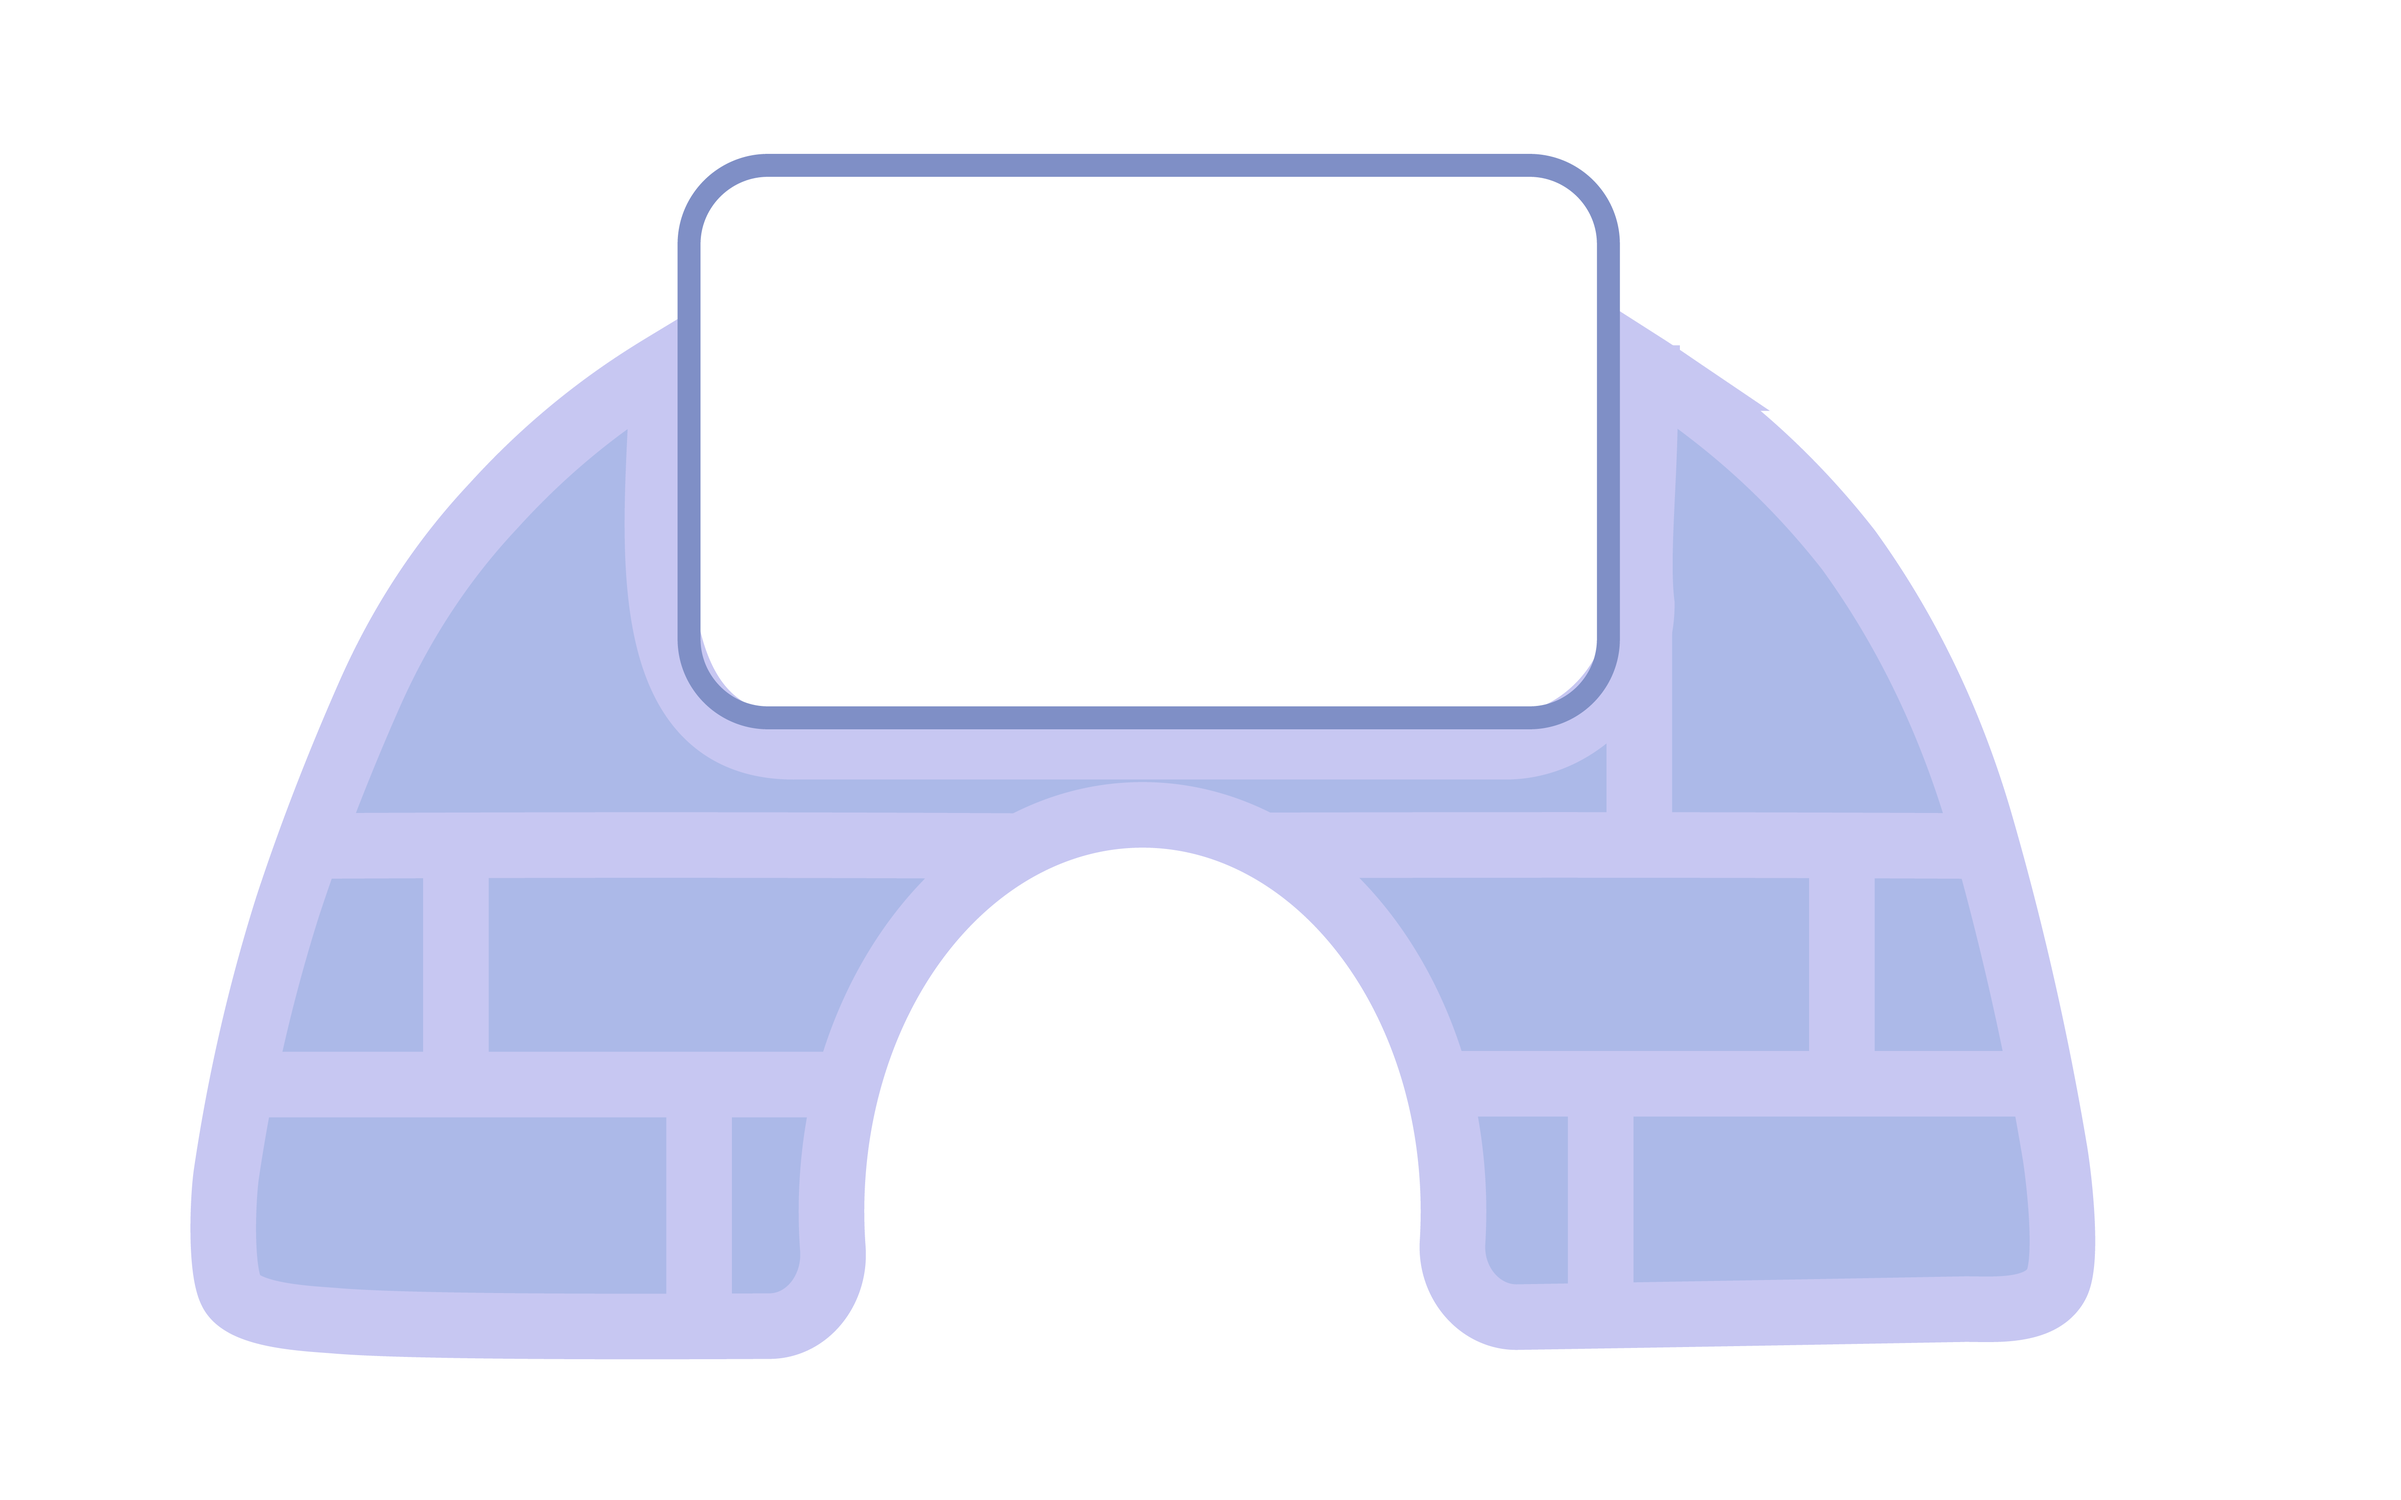
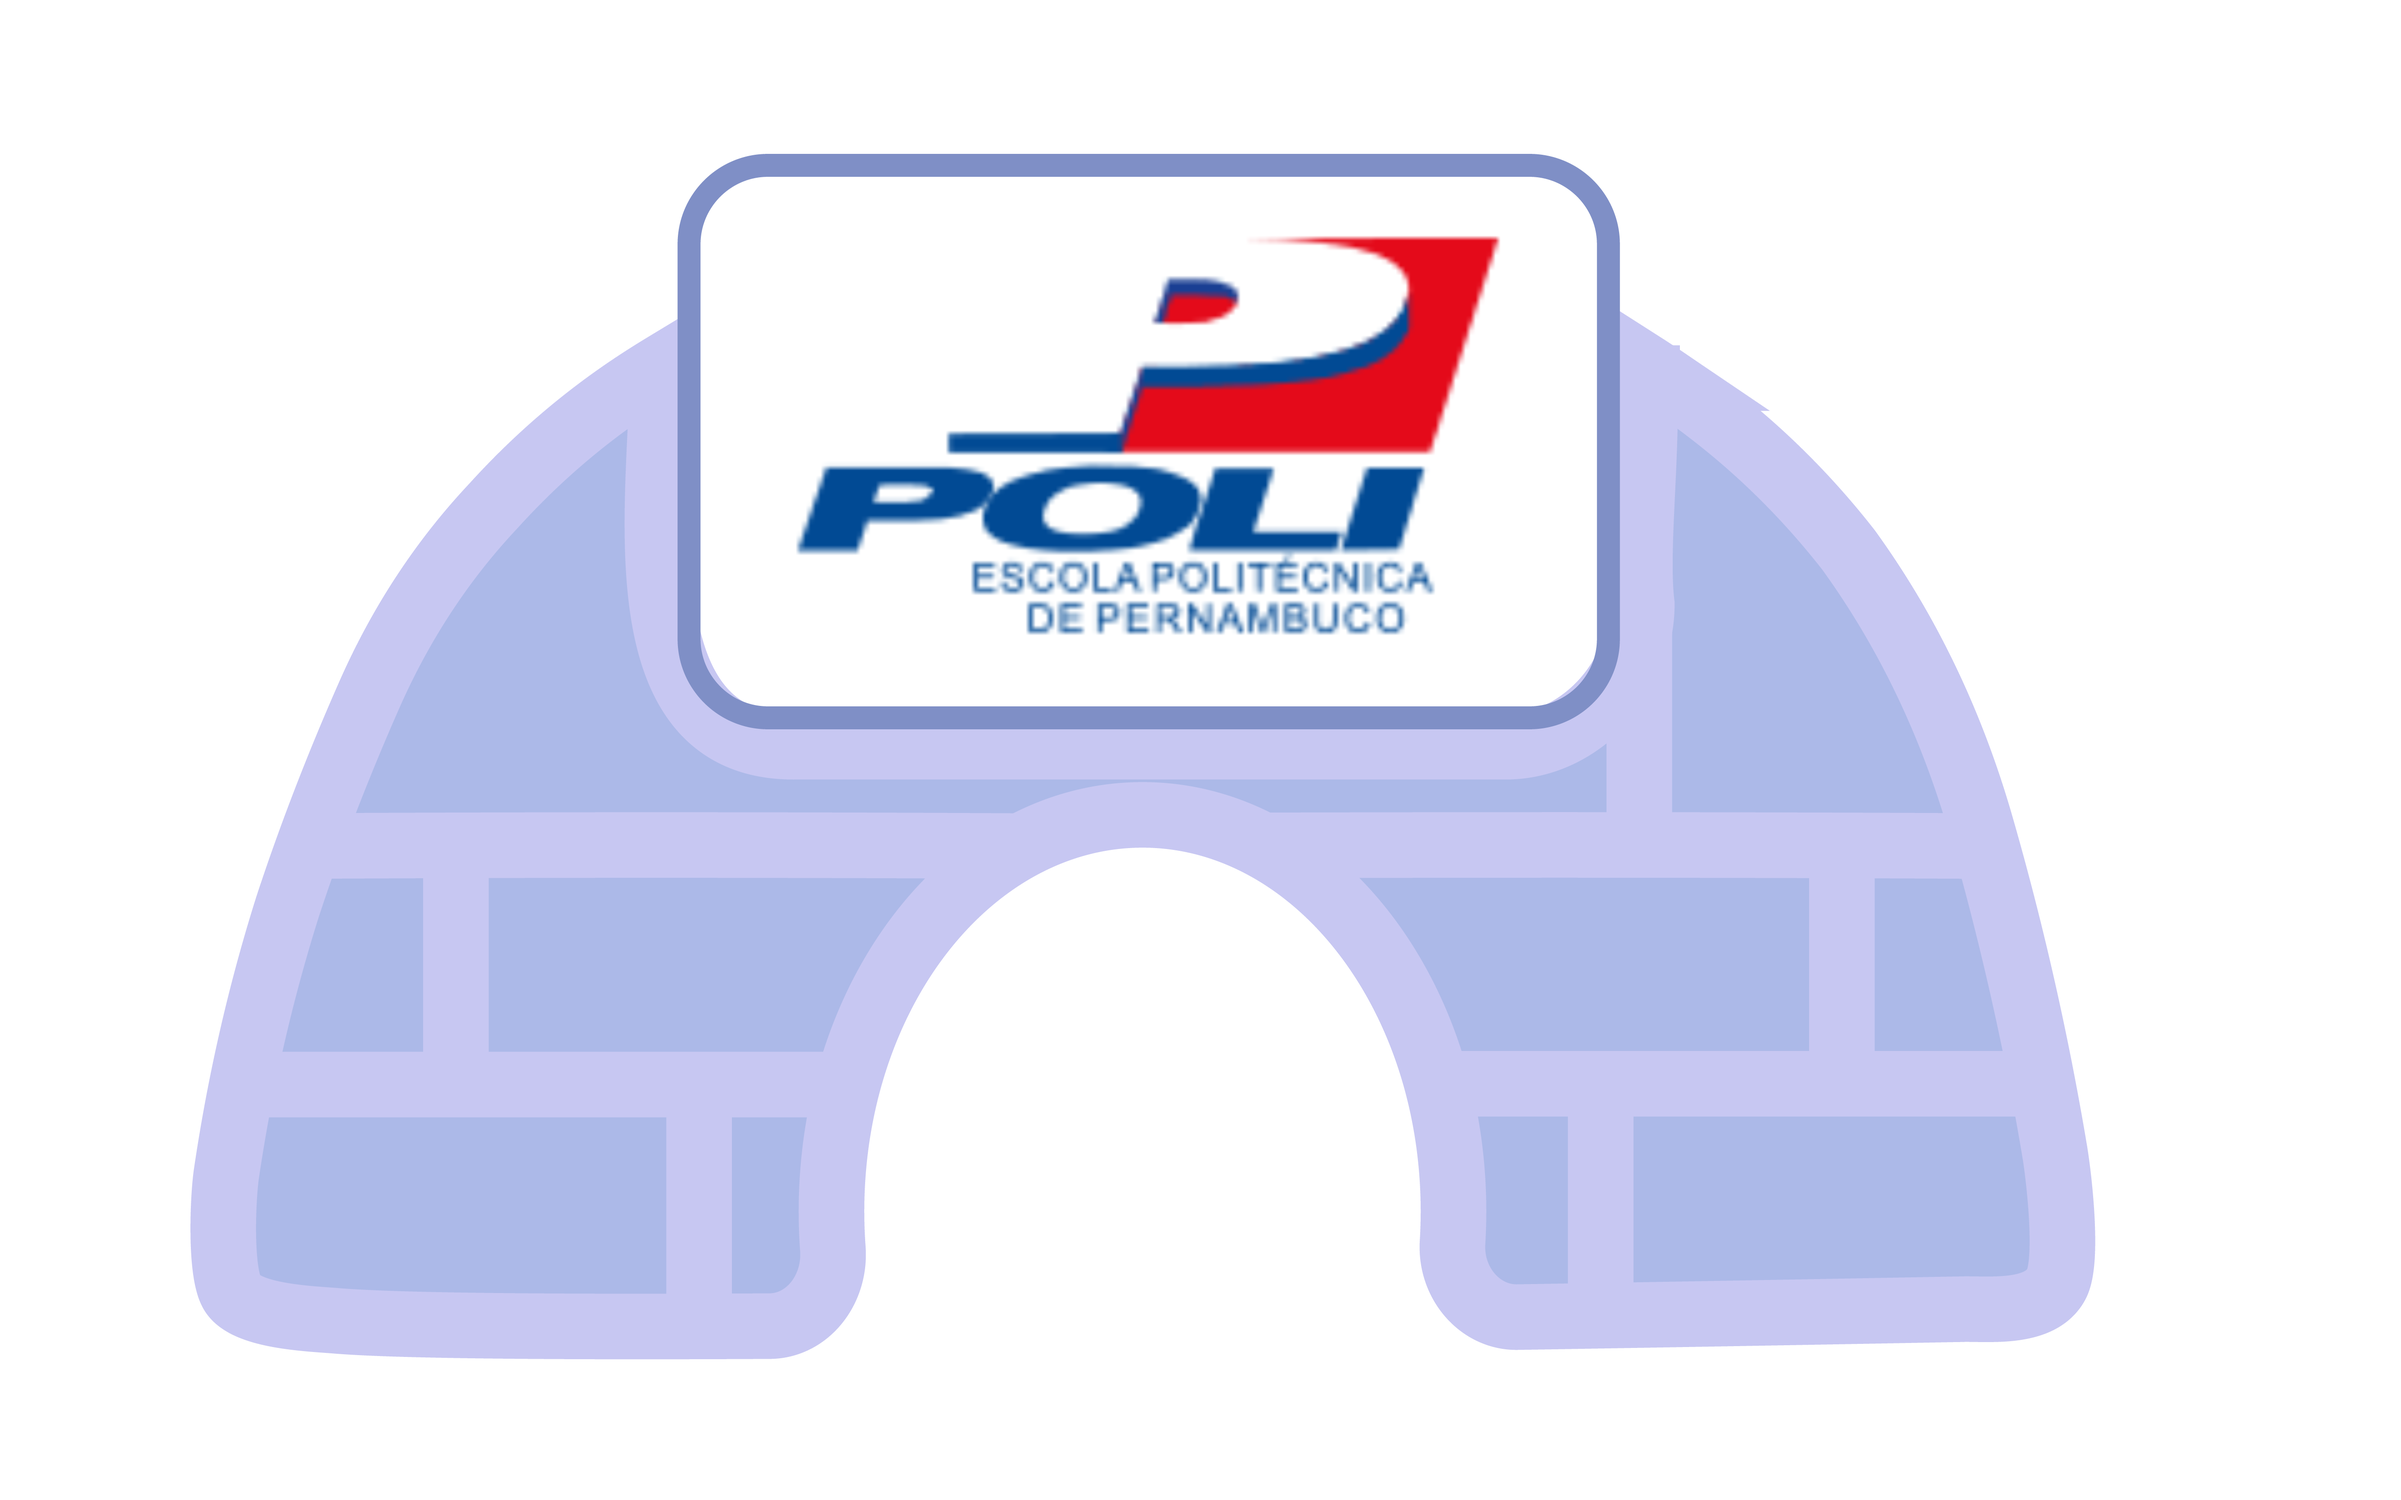
tela de comunidades

Changed region(s): [[0.3112, 0.156, 0.6224, 0.4367]]

diff --git a/front-end/src/components/Communities.js b/front-end/src/components/Communities.js
@@ -1,14 +1,13 @@
 // src/components/Communities.js
-import React, { useState, useEffect } from 'react';
+import React, { useState } from 'react';
 import { FaPlusSquare } from "react-icons/fa";
+import { FaSquareCheck } from "react-icons/fa6";
 import { useNavigate } from 'react-router-dom';
 import communityData from './communityData';
 import '../assets/styles/Communities.css';
-import { FaSquareCheck } from "react-icons/fa6";
 
 const Communities = () => {
   const navigate = useNavigate();
-  const [communities, setCommunities] = useState([]);
   const [joinedCommunities, setJoinedCommunities] = useState([]);
 
   const handleCommunityClick = (community) => {
@@ -16,37 +15,31 @@ const Communities = () => {
   };
 
   const handleJoinCommunity = (communityId) => {
-    fetch(`http://192.168.0.5:8080/join/${communityId}`, {
-      method: 'POST',
-      headers: {
-        'Content-Type': 'application/json'
-      }
-    })
-      .then(response => {
-        if (response.ok) {
-          setJoinedCommunities([...joinedCommunities, communityId]);
-        } else {
-          console.error('Error joining community:', response.statusText);
-        }
-      })
-      .catch(error => console.error('Error joining community:', error));
+    if (joinedCommunities.includes(communityId)) {
+      setJoinedCommunities(joinedCommunities.filter(id => id !== communityId));
+    } else {
+      setJoinedCommunities([...joinedCommunities, communityId]);
+    }
   };
 
   return (
     <div className="communities">
-      <div className="background-image"></div>
       <ul>
         {communityData.map((community) => (
           <li key={community.id}>
             <button className="communities-button" onClick={() => handleCommunityClick(community)}>
-              <img className="communities-iglu"src={community.image} alt={''}></img>
-              <div className="button-background"></div> 
-              <text className="communities-text" >{community.name} ({community.members})</text>
+              <img className="communities-iglu" src={community.image} alt={''}></img>
+              <div className="button-background">
+                <span className="communities-text">{community.name} ({community.members})</span>
+              </div>
             </button>
-            <button className="join-communities-button" onClick={() => handleJoinCommunity(community.id)}>
+            <button
+              className={`join-communities-button ${joinedCommunities.includes(community.id) ? 'joined' : 'not-joined'}`}
+              onClick={() => handleJoinCommunity(community.id)}
+            >
               {joinedCommunities.includes(community.id)
                 ? <FaSquareCheck />
-                : <FaPlusSquare onClick={() => handleJoinCommunity(community.id)} />}
+                : <FaPlusSquare />}
             </button>
           </li>
         ))}

diff --git a/front-end/src/assets/styles/Communities.css b/front-end/src/assets/styles/Communities.css
@@ -2,15 +2,16 @@
 @import url('https://fonts.googleapis.com/css2?family=Fredoka:wght@300..700&display=swap');
 
 .communities {
-  margin-top: -394px;
+  margin-top: -405px;
   background-image: url('../images/brick-wall.png');
   border: 1px solid #939DCE;;
   flex-direction: column;
   align-items: center;
-  padding: 20px;
+  padding: 19.7px;
   width: 65%;
   background-color: transparent;
   box-shadow: 0 2px 5px rgba(0, 0, 0, 0.1);
+  z-index: 0;
 }
 
 .header {
@@ -70,41 +71,41 @@
 }
 
 .button-background {
-  position: absolute;
-  top: 50%;
-  left: 16%;
-  transform: translateY(-50%);
-  width: 30%;
-  height: 30%;
+  display: inline-block; 
+  padding: 12px;
   background-image: url('../images/forma--titulo-comunidades.png');
-  background-size: contain;
+  background-size: 100% 100%; 
   background-repeat: no-repeat;
 }
 
 .communities-text {
-  position: relative;
+  margin-left: 6px;
+  display: inline-block; 
   text-align: center;
   font-size: 23px;
   font-family: 'Fredoka';
   font-weight: 700;
   color: #939dce;
-  z-index: 1; /* Garantir que o texto esteja sobre o background */
+  z-index: 2; 
 }
+
+
+
 .join-communities-button {
-  font-size: 33px;
-  color: #939dce;
+  font-size: 57px;
   background-color: transparent;
   border: none;
   cursor: pointer;
-  padding: 10px;
-  display: flex;
-  align-items:center;
+  padding: 16px;
+  display: inline-flex;
+  align-items: center;
+  transition: color 0.3s ease;
 }
 
+.join-communities-button.not-joined {
+  color: #939dce;
+}
 
-
-
-.communities .community-members {
-  font-size: 2000px;
-  color: #666;
+.join-communities-button.joined {
+  color: #197ad4;
 }
